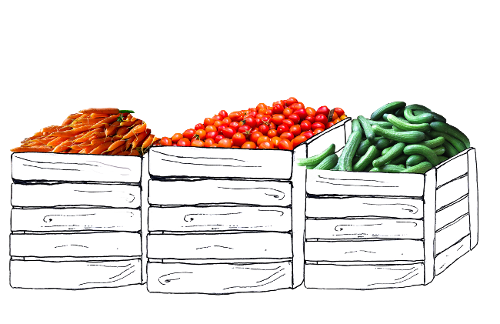
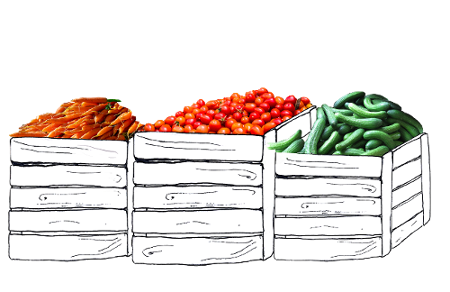
the game sort of works now

diff --git a/Neta/greenGrocerGame.py b/Neta/greenGrocerGame.py
@@ -4,6 +4,7 @@ import time
 from momo_game.Neta.Shopper import Shopper
 from momo_game.RPG.dialog import Dialog, DIALOG_BOX_SIZE
 from momo_game.Neta.power_ups import PowerUps
+import json
 
 POSITION = 'positiom'
 IMAGE = 'image'
@@ -17,11 +18,11 @@ TEXT = 'text'
 
 #vegetable constants:
 CARROTS = 'carrots'
-CARROT_POSITION = (11+150,139+150)
+CARROT_POSITION = (11+150,124+150)
 TOMATOES = 'tomatoes'
-TOMATO_POSITION = (139+150,296+150)
+TOMATO_POSITION = (134+150,262+150)
 CUCUMBERS = 'cucumbers'
-CUCUMBER_POSITION = (296+150,437+150)
+CUCUMBER_POSITION = (265+150,515)
 
 speech_bubble_path = os.path.abspath('Neta/speechBubble.png')
 SPEECH_BUBBLE_IMAGE = pygame.image.load(speech_bubble_path)
@@ -31,7 +32,7 @@ class GreenGrocerGame():
     '''The green Grocer minigame for the Momo game'''
 
     STEPSIZE = 3
-    GROCER_IMAGE_WIDTH = 130
+    GROCER_IMAGE_WIDTH = 90
     GROCER_IMAGE_HEIGHT = 300
     TOMATO_PRICE = 0.9
     CARROT_PRICE = 1.1
@@ -41,7 +42,10 @@ class GreenGrocerGame():
     def __init__(self,game):
         '''Initiate the game object'''
         self.__game = game
-        self.ad = False
+        self.__ad = False
+        self.__gray_man = False
+        self.__salee = False
+        self.__organic = False
         image_path = os.path.abspath('Neta/veg.png')
         self.__bg_image = pygame.image.load(image_path)
         self.__screen = self.__game.get_screen()
@@ -69,9 +73,9 @@ class GreenGrocerGame():
         self.__last_down_press = time.time()
         self.__number_of_days = 5
         self.__finished = False
-        self.gray_man = False
-        self.sale = False
-        self.organic = False
+        self.__morning = 9
+        self.__night = 17
+        self.__gray_man_dialogue = False
 
 
 
@@ -90,17 +94,17 @@ class GreenGrocerGame():
         self.__stalls = {}
         self.__stalls[TOMATOES] = {}
         self.__stalls[TOMATOES][POSITION] = TOMATO_POSITION
-        path = os.path.abspath('Neta/tomato.png')
+        path = os.path.abspath('gal/tom.png')
         self.__stalls[TOMATOES][IMAGE] = pygame.image.load(path)
 
         self.__stalls[CARROTS] = {}
         self.__stalls[CARROTS][POSITION] = CARROT_POSITION
-        path = os.path.abspath('Neta/carrot.png')
+        path = os.path.abspath('gal/carrot.png')
         self.__stalls[CARROTS][IMAGE] = pygame.image.load(path)
 
         self.__stalls[CUCUMBERS] = {}
         self.__stalls[CUCUMBERS][POSITION] = CUCUMBER_POSITION
-        path = os.path.abspath('Neta/cucumber.png')
+        path = os.path.abspath('gal/cuc.png')
         self.__stalls[CUCUMBERS][IMAGE] = pygame.image.load(path)
 
 
@@ -116,16 +120,17 @@ class GreenGrocerGame():
             self.__display_day_summary = False
             self.__money = self.display_day_sum()
             self._start_time = time.time()
-            self.create_shoppers()
             self.__basket = list()
             self.__shopping_list = {TOMATOES: 0, CUCUMBERS: 0, CARROTS: 0}
             self.__vegetables_sold = {TOMATOES: 0, CUCUMBERS: 0, CARROTS: 0}
+            self.create_shoppers()
 
         if pressed_keys[pygame.K_RETURN] and self.__doing_dialogue and (time.time() - self.__last_enter > 1):
             self.__dialog.press_enter()
             self.__last_enter = time.time()
             if (self.__dialog.get_done()):
                 self.__can_move = True
+                self.__gray_man_dialogue = False
                 self.__basket_text = "Tomatoes: " + str(self.__shopping_list[TOMATOES]) + "     Cucumbers: " + str(
                     self.__shopping_list[CUCUMBERS]) + "     Carrots: " + str(self.__shopping_list[CARROTS])
 
@@ -140,7 +145,7 @@ class GreenGrocerGame():
             if pressed_keys[pygame.K_DOWN]:
                 if (time.time() - self.__last_down_press > 1):
                     self.__last_down_press = time.time()
-                    if self.__grocer[POSITION][0] >= 0:
+                    if self.__grocer[POSITION][0] >= self.__game.SCREEN_WIDTH - 300:
                         if (self.__during_mission):
                             self.check_basket()
                         else:
@@ -148,7 +153,7 @@ class GreenGrocerGame():
                             self.__during_mission = True
 
                 for vegetable in self.__stalls:
-                    if (self.__grocer[POSITION][0] > self.__stalls[vegetable][POSITION][0] and self.__grocer[POSITION][0] < self.__stalls[vegetable][POSITION][1]):
+                    if (self.__grocer[POSITION][0]  > self.__stalls[vegetable][POSITION][0] - 10 and self.__grocer[POSITION][0] + self.__grocer[WIDTH] < self.__stalls[vegetable][POSITION][1]):
                         if time.time() - self.__last_vegetable_added > 0.5 and len(self.__basket) <= 13:
                             self.__basket.append(vegetable)
                             self.__last_vegetable_added = time.time()
@@ -218,23 +223,23 @@ class GreenGrocerGame():
 
     def display_sidebar(self):
         '''display the amount of money earned'''
-        money_text = self.__font.render("Money: " + str("%.2f" % self.__money), True, (255,255,255))
+        money_text = self.__font.render("Money: " + str("%.2f" % self.__money), True, (0,0,0))
         self.__screen.blit(money_text,(10, 80))
 
         if (not self.__display_day_summary):
             self.draw_powerups()
 
             current_time = int (time.time() - self._start_time)
-            current_time *= 8
-            hours = current_time // 60 + 9
+            current_time *= 4
+            hours = current_time // 60 + self.__morning
             minutes = current_time % 60
-            if (hours < 17):
-                time_text = self.__font.render("Clock: " + str(hours) + ":" + str(minutes), True, (255,255,255))
+            if (hours < self.__night):
+                time_text = self.__font.render("Clock: " + str(hours) + ":" + str(minutes), True, (0,0,0))
                 self.__screen.blit(time_text,(10, 110))
             else:
                 self.__display_day_summary = True
         else:
-            time_text = self.__font.render("Day Summary", True, (255, 255, 255))
+            time_text = self.__font.render("Day Summary", True, (0, 0, 0))
             self.__screen.blit(time_text, (10, 110))
 
 
@@ -264,7 +269,7 @@ class GreenGrocerGame():
 
     def main_loop(self):
         '''the main loop for the minigame'''
-        self.__screen.fill((0, 0, 0))
+        self.__screen.fill((250, 250, 250))
         if not (self.__display_day_summary):
             self.__screen.blit(self.__bg_image,(150,120))
             self.__screen.blit(self.__grocer[IMAGE],self.__grocer[POSITION])
@@ -282,6 +287,9 @@ class GreenGrocerGame():
         self.check_mouse_clicks()
         self.display_message()
 
+        if (self.__gray_man_dialogue):
+            self.__screen.blit(pygame.image.load('Neta/gray_man.png'), (self.__grocer[POSITION][0] + self.__grocer[WIDTH] + 50, self.__grocer[POSITION][1]))
+
         return not self.__finished
 
 
@@ -294,13 +302,12 @@ class GreenGrocerGame():
             tomato_price = self.__vegetables_sold[TOMATOES] * (GreenGrocerGame.TOMATO_PRICE - 0.2)
             cucumber_price = self.__vegetables_sold[CUCUMBERS] * (GreenGrocerGame.CUCUMBER_PRICE - 0.2)
             carrot_price = self.__vegetables_sold[CARROTS] * (GreenGrocerGame.CARROT_PRICE - 0.2)
-            text = ["Vegetables sold today:", str(self.__vegetables_sold[TOMATOES]) + " tomatoes" , str(self.__vegetables_sold[CARROTS]) + " carrots", str(self.__vegetables_sold[CUCUMBERS]) + " cucumbers" , "Expenses:" , "Tomatoes: " + str(tomato_price) , "Carrots: " + str(carrot_price) ,
-                   "Cucumbers: " + str(cucumber_price) ," " , "Net Income today: " + str( "%.2f" % (income - tomato_price - cucumber_price - carrot_price)), " ", " ", " ", "Click on powerups to get them", " ", " ", "Press up key to begin the next day"]
+            text = ["Vegetables sold today:", str(self.__vegetables_sold[TOMATOES]) + " tomatoes" , str(self.__vegetables_sold[CARROTS]) + " carrots", str(self.__vegetables_sold[CUCUMBERS]) + " cucumbers" , "Expenses:" , "Tomatoes: " + str("%.2f" % tomato_price) , "Carrots: " + str("%.2f" % carrot_price) ,
+                   "Cucumbers: " + str("%.2f" % cucumber_price) ," " , "Net Income today: " + str( "%.2f" % (income - tomato_price - cucumber_price - carrot_price)), " ", " ", " ", "Click on powerups to get them", " ", " ", "Press up key to begin the next day"]
             for line in text:
-                text_to_print = self.__font.render(line,True,(255,255,255))
+                text_to_print = self.__font.render(line,True,(0,0,0))
                 self.__screen.blit(text_to_print, (x_position, y_position))
                 y_position += 25
-            self.create_shoppers()
             return income - tomato_price - cucumber_price - carrot_price
         else:
             self.__finished = True
@@ -327,17 +334,22 @@ class GreenGrocerGame():
     def create_shoppers(self):
         '''create the shoppers'''
         self.__shoppers = list()
-        for i in range(6):
-            self.__shoppers.append(Shopper(False))
-
-        if self.ad is True:
-            for i in range(10):
+        if (self.__gray_man):
+            for i in range(25):
                 self.__shoppers.append(Shopper(True))
 
-        if self.sale:
-            for shopper in self.__shoppers:
-                remainder = 12 - (shopper.get_shopping_list()[TOMATOES] + shopper.get_shopping_list()[CUCUMBERS] + shopper.get_shopping_list()[CARROTS])
-                shopper.get_shopping_list()[CUCUMBERS] += remainder
+        else:
+            for i in range(6):
+                self.__shoppers.append(Shopper(False))
+
+            if self.__ad is True:
+                for i in range(10):
+                    self.__shoppers.append(Shopper(True))
+
+            if self.__salee:
+                for shopper in self.__shoppers:
+                    remainder = 12 - (shopper.get_shopping_list()[TOMATOES] + shopper.get_shopping_list()[CUCUMBERS] + shopper.get_shopping_list()[CARROTS])
+                    shopper.get_shopping_list()[CUCUMBERS] += remainder
 
 
 
@@ -366,21 +378,38 @@ class GreenGrocerGame():
     #########################
 
     def local_ad(self):
-        self.ad = True
+        self.__ad = True
         self.__message = "The ad is attracting new costumers to you store"
 
     def sale(self):
-        self.sale = True
+        self.__salee = True
         self.__message = "As a result of your sale, people are buying more vegetables"
         GreenGrocerGame.CARROT_PRICE -= 0.1
         GreenGrocerGame.CUCUMBER_PRICE -= 0.1
         GreenGrocerGame.TOMATO_PRICE -= 0.1
 
     def gray_man(self):
-        self.gray_man = True
+        self.__gray_man = True
+        path = os.path.abspath('gal/angry_yarkan.png')
+        self.__grocer[IMAGE] = pygame.image.load(path)
+        bg_path = os.path.abspath('Neta/bg_gray.png')
+        self.__bg_image = pygame.image.load(bg_path)
+        self.__morning = 8
+        self.night = 20
+        self.create_shoppers()
+        self.__can_move = False
+        self.__doing_dialogue = True
+        json_file_path = os.path.abspath("Neta/gray_man_grocer_conv.json")
+        json_file = open(json_file_path)
+        json_str = json_file.read()
+        self.__dialog = Dialog(json.loads(json_str))
+        self.__gray_man_dialogue = True
+
+
+
 
     def organic(self):
-        self.organic = True
+        self.__organic = True
         GreenGrocerGame.CARROT_PRICE += 0.5
         GreenGrocerGame.CUCUMBER_PRICE += 0.5
         GreenGrocerGame.TOMATO_PRICE += 0.5

diff --git a/game_main.py b/game_main.py
@@ -7,11 +7,14 @@ try: #Import modules to play video game files
     from moviepy.editor import VideoFileClip
 except:
     pass
+from momo_game.Neta.greenGrocerGame import GreenGrocerGame
+from RPG.rpg import RPG_minigame as minigame
+from AVi.coloredBoxes import *
+from momo_game.Naama.ChaseGame import ChaseGame
 
 if argv[-1] == "yotam":
     from RPG.rpg import RPG_minigame as minigame
 elif argv[-1] == "neta":
-    from momo_game.Neta.greenGrocerGame import GreenGrocerGame
     minigame = GreenGrocerGame
 elif argv[-1] == "avi":
     from AVi.coloredBoxes import *
@@ -32,7 +35,10 @@ class Game():
         '''create a new game object'''
         self.__screen = screen
         self.__minigame_list = list()
+        self.__minigame_list.append(GreenGrocerGame(self))
+        self.__minigame_list.append(ChaseGame(self))
         self.__minigame_list.append(minigame(self))
+        self.__minigame_list.append(coloredGame(self))
         self.__current_minigame_loop = self.__minigame_list[0].get_loop()
         self.__current_minigame_number = 0
         self.__music = self.__minigame_list[self.__current_minigame_number].get_music()

diff --git a/Neta/Shopper.py b/Neta/Shopper.py
@@ -28,7 +28,7 @@ class Shopper():
             self.__dialogue = shopper_dictionary["shopper"+str(Shopper.SHOPPER_NUMBER)][DIALOGUE]
             Shopper.SHOPPER_NUMBER += 1
         else:
-            self.__dialogue = shopper_dictionary["Dummy"]
+            self.__dialogue = shopper_dictionary["Dummy"].copy()
             self.__shopping_list = {"tomatoes" : random.randint(1,4), "carrots" : random.randint(1,4), "cucumbers" : random.randint(1,4)}
 
 

diff --git a/Naama/ChaseGame.py b/Naama/ChaseGame.py
@@ -12,7 +12,7 @@ class ChaseGame:
 
     MAX_SCORE = 30
 
-    def __innit__(self, game):
+    def __init__(self, game):
         clip = VideoFileClip('Naama/momo-skate.mp4')
         clip.preview()
         self.game = game
